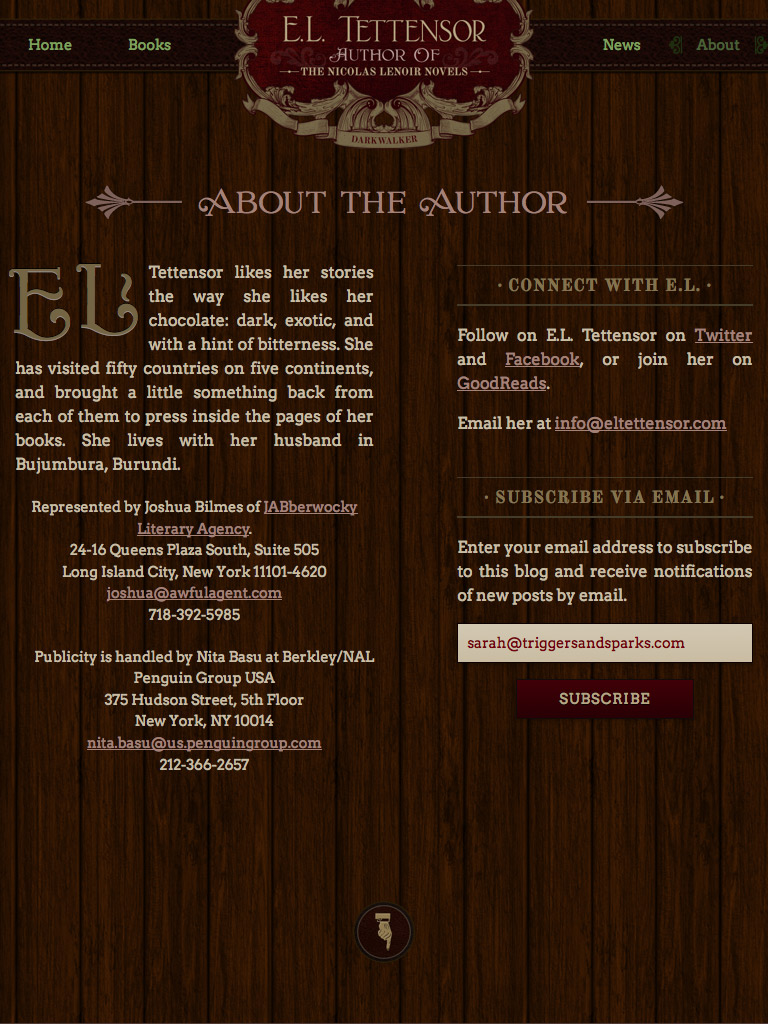
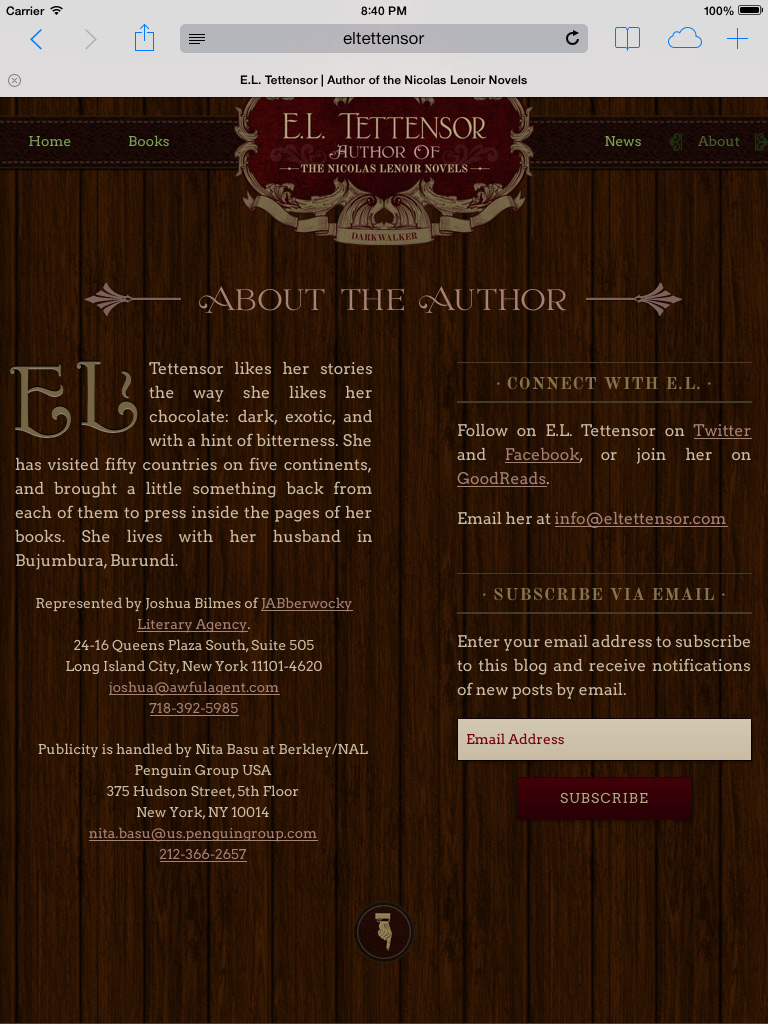
Reword EL's page and add shots of phone/tablet with chrome and sized proportionally.

Changed region(s): [[0.0, 0.0, 1.0, 0.8438]]

diff --git a/pieces/el-tettensor-author-website/el-tettensor-author-website.php b/pieces/el-tettensor-author-website/el-tettensor-author-website.php
@@ -14,13 +14,11 @@
 	</div>
 	
 	<div class="fivecol project-writeup">
-		<p class="cap">When E.L. Tettensor asked me to build her a website to promote her debut novel, she said she wanted an immersive experience&mdash;like stepping inside the pages of the book. It needed to be old-fashioned, dark, and ornate. She also mentioned that she liked the parallax scrolling effect used on Dan Brown&rsquo;s site, but that it might be a bit out of reach. Naturally, I took this as a challenge. This site was my first experience with parallax effects&mdash;and of course I decided that it needed to be responsive, as well.</p>
-		
-		<p>A few sleepless nights prior to our launch, I realized that I might have over-estimated my own abilities.</p>
-		
+		<p class="cap">When E.L. Tettensor asked me to build her a website to promote her debut novel, she said she wanted an immersive experience&mdash;like stepping inside the pages of the book. It needed to be old-fashioned, dark, and ornate. She mentioned that she liked the parallax scrolling effect, but that it might be a bit out of reach. Naturally, I took this as a challenge. This site was my first experience with parallax effects—but I went a step further and made sure the site was responsive. The result is a site that&rsquo; as immersive on a phone as on a computer.</p>
+				
 		<a href="<?php echo $path; ?>/logo.png"><img class="borderless" src="<?php echo $path; ?>/logo.png" alt="" /></a>
 	
-		<p>First, I helped E.L. find a great illustrator for the main background image. I then designed the site around the illustration. The final design is something of a collage. I built backgrounds for the different panels by combining elements extracted from the illustration, from my own libraries, and from various stock sources, modifying and combining them so that each panel would feel distinct, but that they belonged to a greater whole. In order to make the transition from panel to panel less abrupt, I added an extra panel in between with subtle text and imagery that scrolled at different speeds, creating an illusion of depth. It's a rather image-heavy site, but the mixing of all these patterns, textures, and ornaments makes the site feel appropriately rich.</p>
+		<p>First, I helped E.L. find a great illustrator for the main background image. I then designed the site around the illustration. The final design is something of a collage. I built backgrounds for the different panels by combining elements extracted from the illustration, from my own libraries, and from various stock sources, modifying and combining them so that each panel would feel distinct, while remaining a cohesive whole. In order to make the transition from panel to panel less abrupt, I added an extra panel in between with subtle text and imagery that scrolled at different speeds, creating an illusion of depth. It's a rather image-heavy site, but the mixing of all these patterns, textures, and ornaments makes the site feel appropriately rich.</p>
 		
 		<p>I also did some CSS animation on the front page, to make it feel more as though the visitor is walking in on a scene. The background image fades in quickly over an out-of-focus, desaturated, and almost black version of itself, giving the effect of a light being switched on. Then the logo, navigation, text, and buttons fade in at different speeds, while a wisp of green smoke fades in almost imperceptibly.</p>
 				
@@ -37,21 +35,21 @@
 
 <div class="row">
 
-	<div class="fourcol project-writeup">
+	<div class="fivecol project-writeup">
 		<p class="cap">Making the site work well across a variety of screens, with different sizes, proportions, and technical restrictions, was a major challenge. A lot of work went into fine-tuning all the rules such that the site would work well everywhere.</p>
 		
 		<p>The blog posts are separate pages, and have their own style that ties in with the rest of the site. </p>
 		
 	</div>
 
-	<div class="fourcol">
-		<a href="<?php echo $path; ?>/iphone.jpg"><img src="<?php echo $path; ?>/iphone.jpg" alt="iPhone" /></a>
-	</div>
 	
 	<div class="fourcol">
 		<a href="<?php echo $path; ?>/ipad.jpg"><img src="<?php echo $path; ?>/ipad.jpg" alt="iPad" /></a>
 	</div>
-	
+
+	<div class="threecol" style="margin-top: 70px;">
+		<a href="<?php echo $path; ?>/iphone.jpg"><img src="<?php echo $path; ?>/iphone.jpg" alt="iPhone" /></a>
+	</div>
 
 </div>
 
